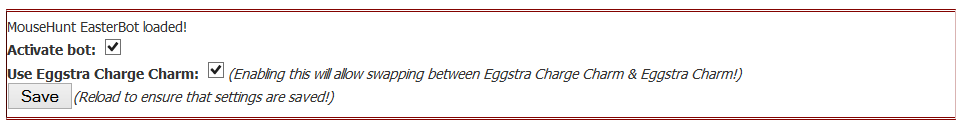
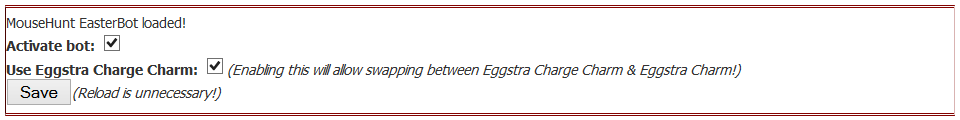
sorry for misleading desc

diff --git a/easter.user.js b/easter.user.js
@@ -95,7 +95,7 @@ document.addEventListener('DOMContentLoaded', function (arg) {
 		div.appendChild(temp);
 
 		temp = document.createElement('i');
-		temp.appendChild(document.createTextNode('(Reload to ensure that settings are saved!)'));
+		temp.appendChild(document.createTextNode('(Reload is unnecessary!)'));
 		div.appendChild(temp);
 
 		Settings_Box.appendChild(div);
